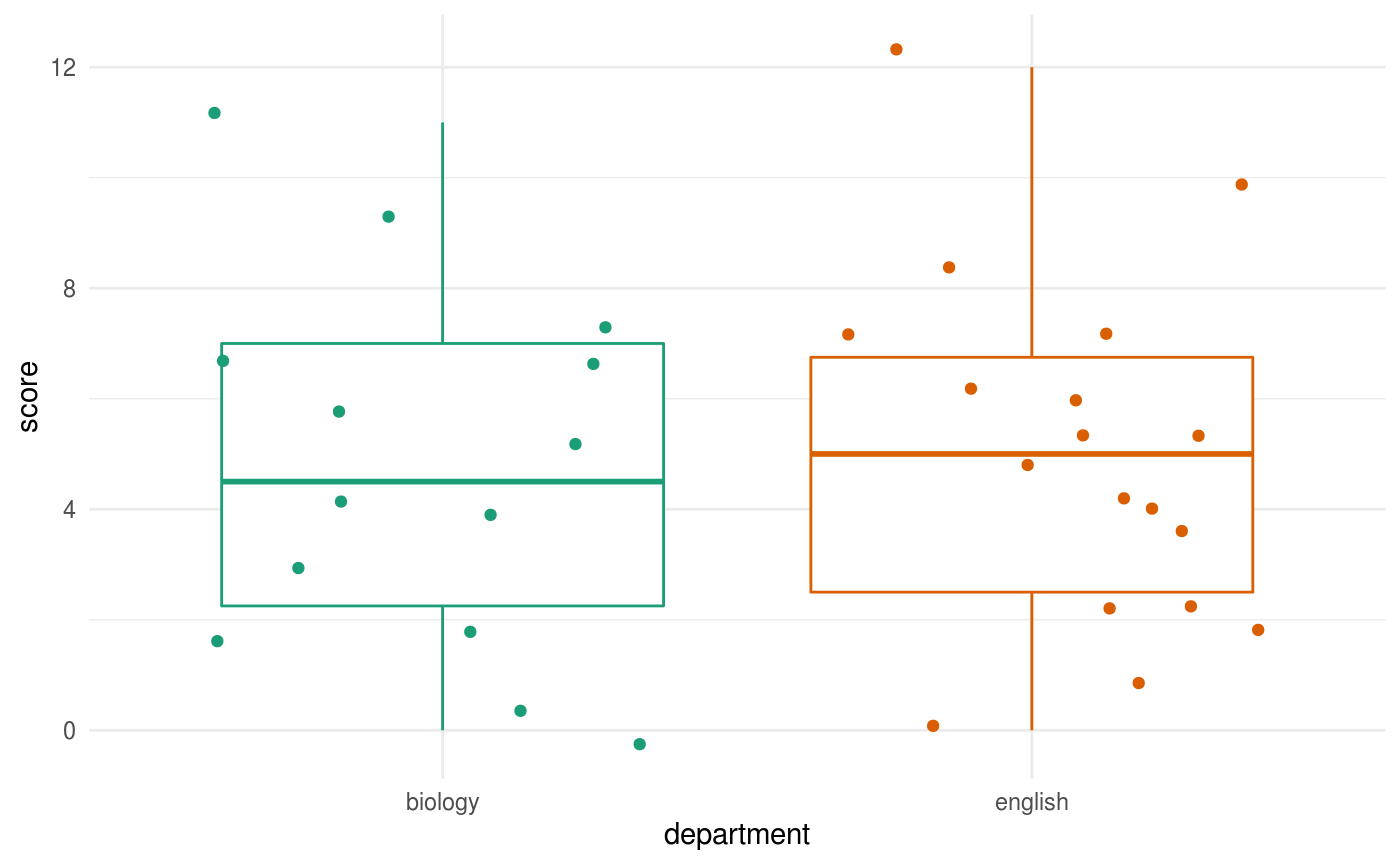
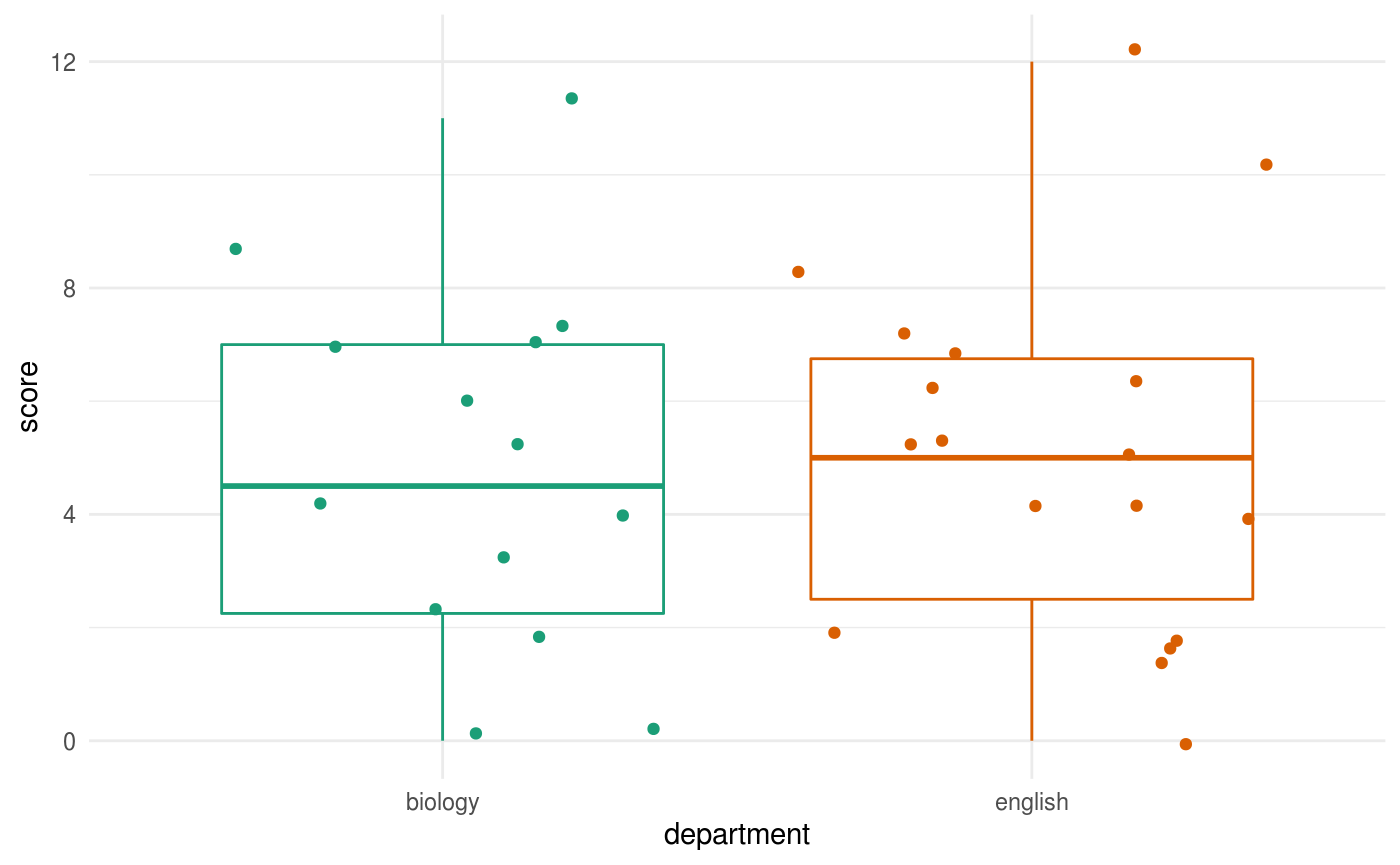
Built site for distributions: 0.0.0.9001@ad79504

diff --git a/reference/random.exponential.html b/reference/random.exponential.html
@@ -176,8 +176,8 @@ catch mispellings or other possible errors.</p></td>
     <pre class="examples"><div class='input'>
 <span class='no'>X</span> <span class='kw'>&lt;-</span> <span class='fu'><a href='exponential.html'>Exponential</a></span>(<span class='fl'>5</span>)
 <span class='no'>X</span></div><div class='output co'>#&gt; Exponential distribution (rate = 5)</div><div class='input'>
-<span class='fu'><a href='random.html'>random</a></span>(<span class='no'>X</span>, <span class='fl'>10</span>)</div><div class='output co'>#&gt;  [1] 0.01627916 0.37170595 0.09520872 0.27586525 0.31174743 0.09501077
-#&gt;  [7] 0.05462940 0.23662008 0.01024823 0.12623189</div><div class='input'>
+<span class='fu'><a href='random.html'>random</a></span>(<span class='no'>X</span>, <span class='fl'>10</span>)</div><div class='output co'>#&gt;  [1] 0.15527022 0.08053805 0.03242619 0.39837601 0.21809942 0.15522462
+#&gt;  [7] 0.42240933 0.00271901 0.45517257 0.04748532</div><div class='input'>
 <span class='fu'><a href='pdf.html'>pdf</a></span>(<span class='no'>X</span>, <span class='fl'>2</span>)</div><div class='output co'>#&gt; [1] 0.0002269996</div><div class='input'><span class='fu'><a href='pdf.html'>log_pdf</a></span>(<span class='no'>X</span>, <span class='fl'>2</span>)</div><div class='output co'>#&gt; [1] -8.390562</div><div class='input'>
 <span class='fu'><a href='cdf.html'>cdf</a></span>(<span class='no'>X</span>, <span class='fl'>4</span>)</div><div class='output co'>#&gt; [1] 1</div><div class='input'><span class='fu'><a href='quantile.html'>quantile</a></span>(<span class='no'>X</span>, <span class='fl'>0.7</span>)</div><div class='output co'>#&gt; [1] 0.2407946</div><div class='input'>
 <span class='fu'><a href='cdf.html'>cdf</a></span>(<span class='no'>X</span>, <span class='fu'><a href='quantile.html'>quantile</a></span>(<span class='no'>X</span>, <span class='fl'>0.7</span>))</div><div class='output co'>#&gt; [1] 0.7</div><div class='input'><span class='fu'><a href='quantile.html'>quantile</a></span>(<span class='no'>X</span>, <span class='fu'><a href='cdf.html'>cdf</a></span>(<span class='no'>X</span>, <span class='fl'>7</span>))</div><div class='output co'>#&gt; [1] 6.989008</div><div class='input'>

diff --git a/reference/random.gamma.html b/reference/random.gamma.html
@@ -176,8 +176,8 @@ catch mispellings or other possible errors.</p></td>
     <pre class="examples"><div class='input'>
 <span class='no'>X</span> <span class='kw'>&lt;-</span> <span class='fu'><a href='gamma.html'>Gamma</a></span>(<span class='fl'>5</span>, <span class='fl'>2</span>)
 <span class='no'>X</span></div><div class='output co'>#&gt; Gamma distribution (shape = 5, rate = 2)</div><div class='input'>
-<span class='fu'><a href='random.html'>random</a></span>(<span class='no'>X</span>, <span class='fl'>10</span>)</div><div class='output co'>#&gt;  [1] 3.030084 2.935718 1.649154 2.991003 1.447986 4.418392 1.167976 2.581837
-#&gt;  [9] 1.623058 1.139480</div><div class='input'>
+<span class='fu'><a href='random.html'>random</a></span>(<span class='no'>X</span>, <span class='fl'>10</span>)</div><div class='output co'>#&gt;  [1] 4.010927 2.676424 1.139480 2.166267 2.661249 2.596654 2.276535 2.167553
+#&gt;  [9] 4.498074 3.494974</div><div class='input'>
 <span class='fu'><a href='pdf.html'>pdf</a></span>(<span class='no'>X</span>, <span class='fl'>2</span>)</div><div class='output co'>#&gt; [1] 0.3907336</div><div class='input'><span class='fu'><a href='pdf.html'>log_pdf</a></span>(<span class='no'>X</span>, <span class='fl'>2</span>)</div><div class='output co'>#&gt; [1] -0.9397292</div><div class='input'>
 <span class='fu'><a href='cdf.html'>cdf</a></span>(<span class='no'>X</span>, <span class='fl'>4</span>)</div><div class='output co'>#&gt; [1] 0.9003676</div><div class='input'><span class='fu'><a href='quantile.html'>quantile</a></span>(<span class='no'>X</span>, <span class='fl'>0.7</span>)</div><div class='output co'>#&gt; [1] 2.945181</div><div class='input'>
 <span class='fu'><a href='cdf.html'>cdf</a></span>(<span class='no'>X</span>, <span class='fu'><a href='quantile.html'>quantile</a></span>(<span class='no'>X</span>, <span class='fl'>0.7</span>))</div><div class='output co'>#&gt; [1] 0.7</div><div class='input'><span class='fu'><a href='quantile.html'>quantile</a></span>(<span class='no'>X</span>, <span class='fu'><a href='cdf.html'>cdf</a></span>(<span class='no'>X</span>, <span class='fl'>7</span>))</div><div class='output co'>#&gt; [1] 7</div><div class='input'>

diff --git a/reference/pdf.html b/reference/pdf.html
@@ -179,6 +179,12 @@ catch mispellings or other possible errors.</p></td>
     <p>A vector of probabilities, one for each element of <code>x</code>.</p>
     
 
+    <h2 class="hasAnchor" id="examples"><a class="anchor" href="#examples"></a>Examples</h2>
+    <pre class="examples"><div class='input'><span class='no'>n</span> <span class='kw'>&lt;-</span> <span class='fu'><a href='normal.html'>Normal</a></span>()
+
+<span class='fu'>pdf</span>(<span class='no'>n</span>, <span class='fu'><a href='https://www.rdocumentation.org/packages/base/topics/c'>c</a></span>(<span class='fl'>1</span>, <span class='fl'>2</span>, <span class='fl'>3</span>, <span class='fl'>4</span>, <span class='fl'>5</span>))</div><div class='output co'>#&gt; [1] 2.419707e-01 5.399097e-02 4.431848e-03 1.338302e-04 1.486720e-06</div><div class='input'><span class='fu'>pmf</span>(<span class='no'>n</span>, <span class='fu'><a href='https://www.rdocumentation.org/packages/base/topics/c'>c</a></span>(<span class='fl'>1</span>, <span class='fl'>2</span>, <span class='fl'>3</span>, <span class='fl'>4</span>, <span class='fl'>5</span>))</div><div class='output co'>#&gt; [1] 2.419707e-01 5.399097e-02 4.431848e-03 1.338302e-04 1.486720e-06</div><div class='input'>
+<span class='fu'>log_pdf</span>(<span class='no'>n</span>, <span class='fu'><a href='https://www.rdocumentation.org/packages/base/topics/c'>c</a></span>(<span class='fl'>1</span>, <span class='fl'>2</span>, <span class='fl'>3</span>, <span class='fl'>4</span>, <span class='fl'>5</span>))</div><div class='output co'>#&gt; [1]  -1.418939  -2.918939  -5.418939  -8.918939 -13.418939</div><div class='input'>
+</div></pre>
   </div>
   <div class="col-md-3 hidden-xs hidden-sm" id="sidebar">
     <h2>Contents</h2>
@@ -186,7 +192,9 @@ catch mispellings or other possible errors.</p></td>
       <li><a href="#arguments">Arguments</a></li>
       
       <li><a href="#value">Value</a></li>
-          </ul>
+      
+      <li><a href="#examples">Examples</a></li>
+    </ul>
 
   </div>
 </div>

diff --git a/reference/random.Weibull.html b/reference/random.Weibull.html
@@ -181,8 +181,8 @@ catch mispellings or other possible errors.</p></td>
     <pre class="examples"><div class='input'>
 <span class='no'>X</span> <span class='kw'>&lt;-</span> <span class='fu'><a href='Weibull.html'>Weibull</a></span>(<span class='fl'>0.3</span>, <span class='fl'>2</span>)
 <span class='no'>X</span></div><div class='output co'>#&gt; Weibull distribution (shape = 0.3, scale = 2)</div><div class='input'>
-<span class='fu'><a href='random.html'>random</a></span>(<span class='no'>X</span>, <span class='fl'>10</span>)</div><div class='output co'>#&gt;  [1]  0.007520079  2.807181952 44.027122588 40.379374702  1.523089333
-#&gt;  [6]  0.017381079  0.001031014  0.010819331  0.015205478  0.035014325</div><div class='input'>
+<span class='fu'><a href='random.html'>random</a></span>(<span class='no'>X</span>, <span class='fl'>10</span>)</div><div class='output co'>#&gt;  [1] 1.577212e+00 1.918196e+00 8.360304e-05 4.862825e+01 1.329440e+01
+#&gt;  [6] 9.971851e-03 3.046833e-02 4.738317e+00 4.432303e-02 1.093364e+01</div><div class='input'>
 <span class='fu'><a href='pdf.html'>pdf</a></span>(<span class='no'>X</span>, <span class='fl'>2</span>)</div><div class='output co'>#&gt; [1] 0.05518192</div><div class='input'><span class='fu'><a href='pdf.html'>log_pdf</a></span>(<span class='no'>X</span>, <span class='fl'>2</span>)</div><div class='output co'>#&gt; [1] -2.89712</div><div class='input'>
 <span class='fu'><a href='cdf.html'>cdf</a></span>(<span class='no'>X</span>, <span class='fl'>4</span>)</div><div class='output co'>#&gt; [1] 0.7080417</div><div class='input'><span class='fu'><a href='quantile.html'>quantile</a></span>(<span class='no'>X</span>, <span class='fl'>0.7</span>)</div><div class='output co'>#&gt; [1] 3.713233</div><div class='input'>
 </div></pre>

diff --git a/reference/random.normal.html b/reference/random.normal.html
@@ -180,8 +180,8 @@ catch mispellings or other possible errors.</p></td>
     <pre class="examples"><div class='input'>
 <span class='no'>X</span> <span class='kw'>&lt;-</span> <span class='fu'><a href='normal.html'>Normal</a></span>(<span class='fl'>5</span>, <span class='fl'>2</span>)
 <span class='no'>X</span></div><div class='output co'>#&gt; Normal distribution (mu = 5, sigma = 2)</div><div class='input'>
-<span class='fu'><a href='random.html'>random</a></span>(<span class='no'>X</span>, <span class='fl'>10</span>)</div><div class='output co'>#&gt;  [1] 10.102917  8.142247  4.092400  4.184227  5.375850  3.198349  7.495838
-#&gt;  [8]  4.303395  3.132819  3.083828</div><div class='input'>
+<span class='fu'><a href='random.html'>random</a></span>(<span class='no'>X</span>, <span class='fl'>10</span>)</div><div class='output co'>#&gt;  [1] 3.083828 2.962740 4.287417 2.685892 1.340786 1.664243 3.577372 2.377989
+#&gt;  [9] 4.135705 2.777323</div><div class='input'>
 <span class='fu'><a href='pdf.html'>pdf</a></span>(<span class='no'>X</span>, <span class='fl'>2</span>)</div><div class='output co'>#&gt; [1] 0.0647588</div><div class='input'><span class='fu'><a href='pdf.html'>log_pdf</a></span>(<span class='no'>X</span>, <span class='fl'>2</span>)</div><div class='output co'>#&gt; [1] -2.737086</div><div class='input'>
 <span class='fu'><a href='cdf.html'>cdf</a></span>(<span class='no'>X</span>, <span class='fl'>4</span>)</div><div class='output co'>#&gt; [1] 0.3085375</div><div class='input'><span class='fu'><a href='quantile.html'>quantile</a></span>(<span class='no'>X</span>, <span class='fl'>0.7</span>)</div><div class='output co'>#&gt; [1] 6.048801</div><div class='input'>
 <span class='co'>### example: calculating p-values for two-sided Z-test</span>

diff --git a/reference/random.geometric.html b/reference/random.geometric.html
@@ -186,7 +186,7 @@ catch mispellings or other possible errors.</p></td>
     <pre class="examples"><div class='input'>
 <span class='no'>X</span> <span class='kw'>&lt;-</span> <span class='fu'><a href='geometric.html'>Geometric</a></span>(<span class='fl'>0.3</span>)
 <span class='no'>X</span></div><div class='output co'>#&gt; Geometric distribution (p = 0.3)</div><div class='input'>
-<span class='fu'><a href='random.html'>random</a></span>(<span class='no'>X</span>, <span class='fl'>10</span>)</div><div class='output co'>#&gt;  [1]  2  1  1  2  0  1 12  0  2  0</div><div class='input'>
+<span class='fu'><a href='random.html'>random</a></span>(<span class='no'>X</span>, <span class='fl'>10</span>)</div><div class='output co'>#&gt;  [1] 12  0  2  0  3  4  0  2  0  7</div><div class='input'>
 <span class='fu'><a href='pdf.html'>pdf</a></span>(<span class='no'>X</span>, <span class='fl'>2</span>)</div><div class='output co'>#&gt; [1] 0.147</div><div class='input'><span class='fu'><a href='pdf.html'>log_pdf</a></span>(<span class='no'>X</span>, <span class='fl'>2</span>)</div><div class='output co'>#&gt; [1] -1.917323</div><div class='input'>
 <span class='fu'><a href='cdf.html'>cdf</a></span>(<span class='no'>X</span>, <span class='fl'>4</span>)</div><div class='output co'>#&gt; [1] 0.83193</div><div class='input'><span class='fu'><a href='quantile.html'>quantile</a></span>(<span class='no'>X</span>, <span class='fl'>0.7</span>)</div><div class='output co'>#&gt; [1] 3</div><div class='input'>
 </div></pre>

diff --git a/reference/fit_mle.html b/reference/fit_mle.html
@@ -172,6 +172,11 @@ catch mispellings or other possible errors.</p></td>
     <p>an object the same class as <code>d</code> with updated parameters</p>
     
 
+    <h2 class="hasAnchor" id="examples"><a class="anchor" href="#examples"></a>Examples</h2>
+    <pre class="examples"><div class='input'><span class='no'>n</span> <span class='kw'>&lt;-</span> <span class='fu'><a href='normal.html'>Normal</a></span>()
+
+<span class='fu'>fit_mle</span>(<span class='no'>n</span>, <span class='fu'><a href='https://www.rdocumentation.org/packages/base/topics/c'>c</a></span>(-<span class='fl'>1</span>, <span class='fl'>0</span>, <span class='fl'>0</span>, <span class='fl'>0</span>, <span class='fl'>3</span>))</div><div class='output co'>#&gt; Normal distribution (mu = 0.4, sigma = 1.51657508881031)</div><div class='input'>
+</div></pre>
   </div>
   <div class="col-md-3 hidden-xs hidden-sm" id="sidebar">
     <h2>Contents</h2>
@@ -179,7 +184,9 @@ catch mispellings or other possible errors.</p></td>
       <li><a href="#arguments">Arguments</a></li>
       
       <li><a href="#value">Value</a></li>
-          </ul>
+      
+      <li><a href="#examples">Examples</a></li>
+    </ul>
 
   </div>
 </div>

diff --git a/reference/cdf.html b/reference/cdf.html
@@ -173,6 +173,11 @@ catch mispellings or other possible errors.</p></td>
     <p>A vector of probabilities, one for each element of <code>x</code>.</p>
     
 
+    <h2 class="hasAnchor" id="examples"><a class="anchor" href="#examples"></a>Examples</h2>
+    <pre class="examples"><div class='input'><span class='no'>n</span> <span class='kw'>&lt;-</span> <span class='fu'><a href='normal.html'>Normal</a></span>()
+
+<span class='fu'>cdf</span>(<span class='no'>n</span>, <span class='fu'><a href='https://www.rdocumentation.org/packages/base/topics/c'>c</a></span>(<span class='fl'>1</span>, <span class='fl'>2</span>, <span class='fl'>3</span>, <span class='fl'>4</span>, <span class='fl'>5</span>))</div><div class='output co'>#&gt; [1] 0.8413447 0.9772499 0.9986501 0.9999683 0.9999997</div><div class='input'>
+</div></pre>
   </div>
   <div class="col-md-3 hidden-xs hidden-sm" id="sidebar">
     <h2>Contents</h2>
@@ -180,7 +185,9 @@ catch mispellings or other possible errors.</p></td>
       <li><a href="#arguments">Arguments</a></li>
       
       <li><a href="#value">Value</a></li>
-          </ul>
+      
+      <li><a href="#examples">Examples</a></li>
+    </ul>
 
   </div>
 </div>

diff --git a/reference/quantile.html b/reference/quantile.html
@@ -176,6 +176,11 @@ catch mispellings or other possible errors.</p></td>
     <p>A vector of quantiles, one for each element of <code>p</code>.</p>
     
 
+    <h2 class="hasAnchor" id="examples"><a class="anchor" href="#examples"></a>Examples</h2>
+    <pre class="examples"><div class='input'><span class='no'>n</span> <span class='kw'>&lt;-</span> <span class='fu'><a href='normal.html'>Normal</a></span>()
+
+<span class='fu'><a href='cdf.html'>cdf</a></span>(<span class='no'>n</span>, <span class='fu'><a href='https://www.rdocumentation.org/packages/base/topics/c'>c</a></span>(<span class='fl'>0.2</span>, <span class='fl'>0.4</span>, <span class='fl'>0.6</span>, <span class='fl'>0.8</span>))</div><div class='output co'>#&gt; [1] 0.5792597 0.6554217 0.7257469 0.7881446</div><div class='input'>
+</div></pre>
   </div>
   <div class="col-md-3 hidden-xs hidden-sm" id="sidebar">
     <h2>Contents</h2>
@@ -183,7 +188,9 @@ catch mispellings or other possible errors.</p></td>
       <li><a href="#arguments">Arguments</a></li>
       
       <li><a href="#value">Value</a></li>
-          </ul>
+      
+      <li><a href="#examples">Examples</a></li>
+    </ul>
 
   </div>
 </div>

diff --git a/reference/log_likelihood.html b/reference/log_likelihood.html
@@ -172,6 +172,11 @@ catch mispellings or other possible errors.</p></td>
     <p>the log-likelihood</p>
     
 
+    <h2 class="hasAnchor" id="examples"><a class="anchor" href="#examples"></a>Examples</h2>
+    <pre class="examples"><div class='input'><span class='no'>n</span> <span class='kw'>&lt;-</span> <span class='fu'><a href='normal.html'>Normal</a></span>()
+
+<span class='fu'>log_likelihood</span>(<span class='no'>n</span>, <span class='fu'><a href='https://www.rdocumentation.org/packages/base/topics/c'>c</a></span>(-<span class='fl'>1</span>, <span class='fl'>0</span>, <span class='fl'>0</span>, <span class='fl'>0</span>, <span class='fl'>3</span>))</div><div class='output co'>#&gt; [1] -9.594693</div><div class='input'>
+</div></pre>
   </div>
   <div class="col-md-3 hidden-xs hidden-sm" id="sidebar">
     <h2>Contents</h2>
@@ -179,7 +184,9 @@ catch mispellings or other possible errors.</p></td>
       <li><a href="#arguments">Arguments</a></li>
       
       <li><a href="#value">Value</a></li>
-          </ul>
+      
+      <li><a href="#examples">Examples</a></li>
+    </ul>
 
   </div>
 </div>

diff --git a/reference/likelihood.html b/reference/likelihood.html
@@ -172,6 +172,11 @@ catch mispellings or other possible errors.</p></td>
     <p>the likelihood</p>
     
 
+    <h2 class="hasAnchor" id="examples"><a class="anchor" href="#examples"></a>Examples</h2>
+    <pre class="examples"><div class='input'><span class='no'>n</span> <span class='kw'>&lt;-</span> <span class='fu'><a href='normal.html'>Normal</a></span>()
+
+<span class='fu'>likelihood</span>(<span class='no'>n</span>, <span class='fu'><a href='https://www.rdocumentation.org/packages/base/topics/c'>c</a></span>(-<span class='fl'>1</span>, <span class='fl'>0</span>, <span class='fl'>0</span>, <span class='fl'>0</span>, <span class='fl'>3</span>))</div><div class='output co'>#&gt; [1] 6.808915e-05</div><div class='input'>
+</div></pre>
   </div>
   <div class="col-md-3 hidden-xs hidden-sm" id="sidebar">
     <h2>Contents</h2>
@@ -179,7 +184,9 @@ catch mispellings or other possible errors.</p></td>
       <li><a href="#arguments">Arguments</a></li>
       
       <li><a href="#value">Value</a></li>
-          </ul>
+      
+      <li><a href="#examples">Examples</a></li>
+    </ul>
 
   </div>
 </div>

diff --git a/reference/random.html b/reference/random.html
@@ -169,12 +169,19 @@ catch mispellings or other possible errors.</p></td>
     </table>
     
 
+    <h2 class="hasAnchor" id="examples"><a class="anchor" href="#examples"></a>Examples</h2>
+    <pre class="examples"><div class='input'><span class='no'>n</span> <span class='kw'>&lt;-</span> <span class='fu'><a href='normal.html'>Normal</a></span>()
+
+<span class='fu'>random</span>(<span class='no'>n</span>, <span class='fl'>10</span>)</div><div class='output co'>#&gt;  [1]  0.9509606 -1.4063875 -0.2587592  1.2927346  0.8184596  0.1021921
+#&gt;  [7]  1.3287520  0.4867598 -1.0513221  1.7650452</div></pre>
   </div>
   <div class="col-md-3 hidden-xs hidden-sm" id="sidebar">
     <h2>Contents</h2>
     <ul class="nav nav-pills nav-stacked">
       <li><a href="#arguments">Arguments</a></li>
-                </ul>
+            
+      <li><a href="#examples">Examples</a></li>
+    </ul>
 
   </div>
 </div>
